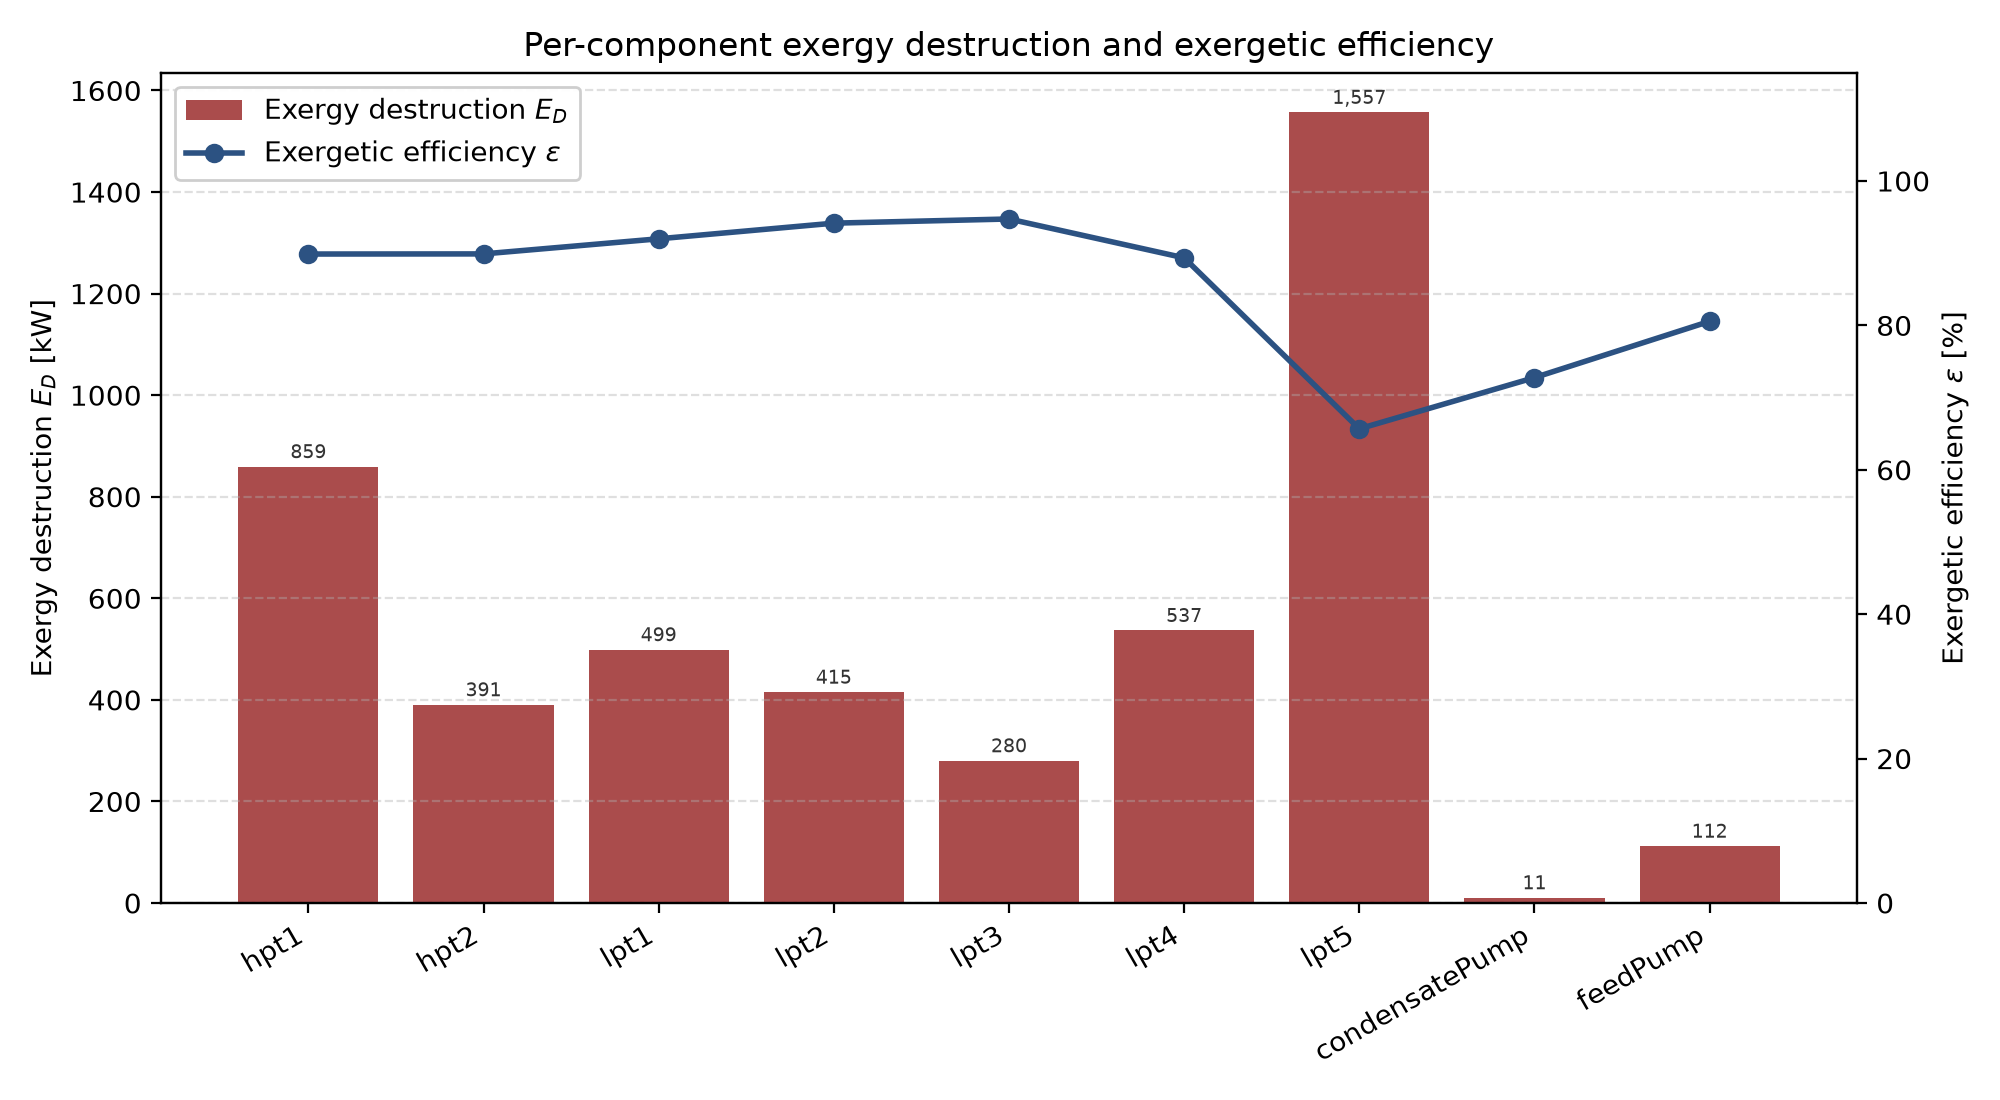
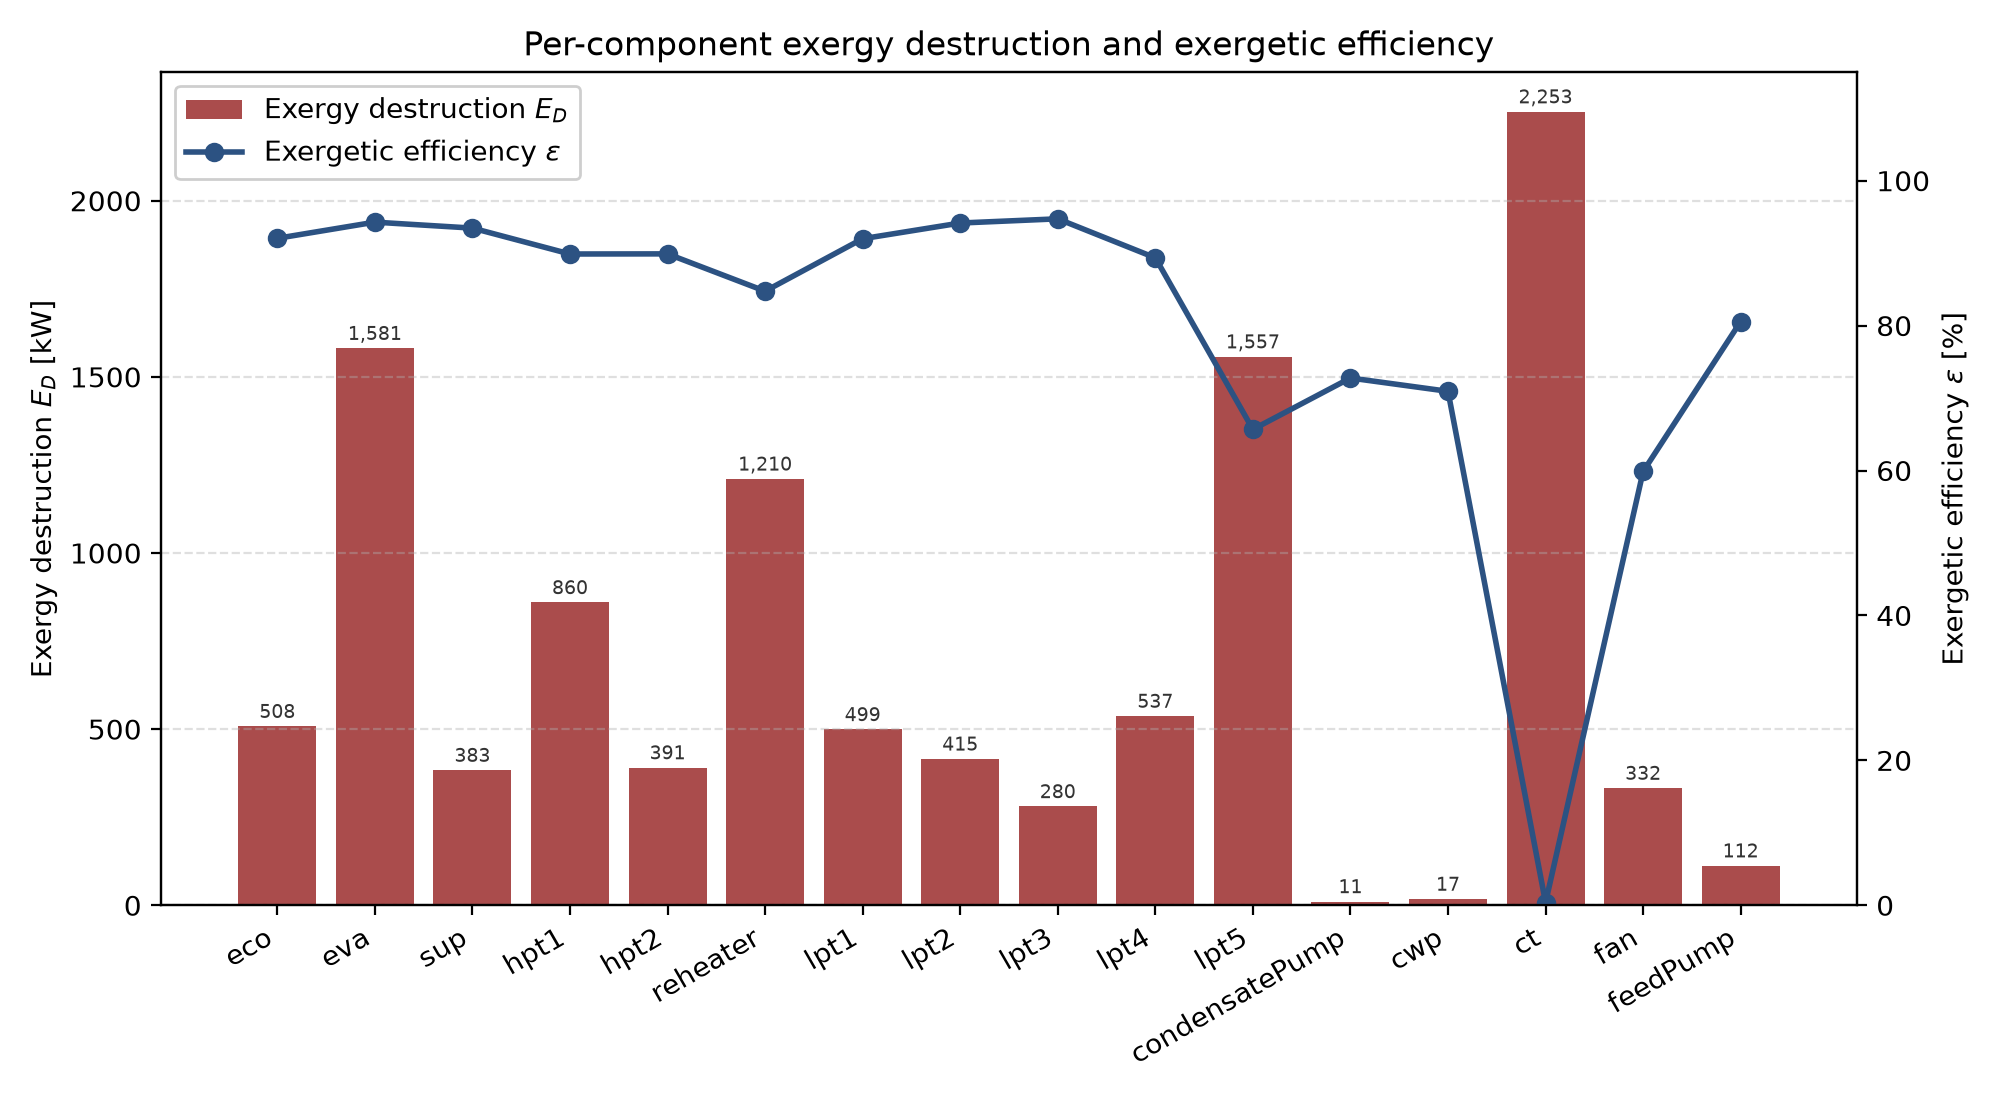
SEGS benchmark docs: describe the new boiler-internals/cooling-tower topology
Updates the benchmark writeup and module docstring to describe the real
economizer/drum/evaporator/superheater/reheater/cooling-tower subsystem
now modeled, replacing the previous "abandoned attempt" disclosure with
what actually shipped, and adds the TESPy-comparison results sections.

Also fixes plot_results.py's stale c["boiler"] reference (pre-dates the
eco/eva/sup rename), which crashed plot regeneration outright.

diff --git a/docs/benchmark/segs_exergy/plot_results.py b/docs/benchmark/segs_exergy/plot_results.py
@@ -82,7 +82,10 @@ def main() -> None:
     plot_turbine_stage_power(c, result, OUT_DIR / "turbine_stage_power.png")
 
     # --- exergy report, same fuel/product definition as the main script ---
-    q_boiler_w = c["boiler"].report_metrics(state)["power [W]"]
+    # "boiler" used to be a single SimpleEvaporator; it's now the real
+    # eco/eva/sup chain (see segs_exergy_benchmark.py's own module
+    # docstring), so its duty is their three duties summed.
+    q_boiler_w = sum(c[name].report_metrics(state)["power [W]"] for name in ("eco", "eva", "sup"))
     q_reheat_w = c["reheater"].report_metrics(state)["power [W]"]
 
     gross_mech_w = sum(c[name].report_metrics(state)["power [W]"] for name in TURBINES)

diff --git a/docs/benchmark/segs_exergy/segs_exergy_benchmark.md b/docs/benchmark/segs_exergy/segs_exergy_benchmark.md
@@ -32,36 +32,101 @@ to its own repo later.)
 7-stage steam turbine train (2 HP stages, 5 LP stages with one reheat
 between HP and LP), 5 regenerative feedwater heaters fed by fixed turbine
 extractions with a condensate drain cascade, one open feedwater heater
-(deaerator), 2 pumps. The oil-heated boiler and reheater (the solar
-field's own boundary with the water/steam side) aren't modeled in detail —
-Fig. 4 gives both endpoints' design temperature *and* pressure directly —
-but unlike the
+(deaerator), 2 pumps, a real economizer/drum/evaporator/superheater boiler
+and two-stream reheater fed by an oil HTF loop, and a real closed
+cooling-water loop through a cooling tower. Unlike the
 [`sco2_recompression`](../sco2_recompression/sco2_recompression_benchmark.md)
-benchmark's own external heater/cooler treatment, this network is a
-**genuinely closed loop**: no `Source`, no `Sink`. Each crossing is a
-[`SimpleEvaporator`](../../components/heat-exchangers/evaporator.md)
-(`boiler`, `reheater`) whose outlet target is exactly the same published
-Fig. 4 value a `Source` used to assert directly, wired as a real component
-fed from the water/steam cycle's own returning stream instead of an
-external boundary — and a single
-[`Recycle`](../../components/flow-elements/recycle.md) anchors the whole
-loop's mass-flow scale (38.6415 kg/s, Table 3's own boiler-outlet mdot).
-See the script's own module docstring for the full topology diagram and
-the exact port wiring.
+benchmark's own external heater/cooler treatment, the water/steam network
+is a **genuinely closed loop**: no `Source`, no `Sink` on that side. A
+single [`Recycle`](../../components/flow-elements/recycle.md) anchors the
+whole loop's mass-flow scale (38.6415 kg/s, Table 3's own boiler-outlet
+mdot). See the script's own module docstring for the full topology
+diagram and the exact port wiring.
 
-**Why `SimpleEvaporator`, not a fixed `PR`:** the boiler's incoming
+**Boiler internals: a real economizer → drum → evaporator → superheater
+chain, not a single boundary-crossing `SimpleEvaporator`.** An earlier
+version of this benchmark treated the boiler and reheater exactly like
+the `sco2_recompression` benchmark treats its own external heater/cooler:
+a single `SimpleEvaporator` per crossing, its outlet (T, P) asserted
+directly from Lippke's Fig. 4 design heat balance, standing in for the
+unmodeled solar field. That's honest about *what* it's not modeling, but
+it throws away real structure Fig. 4 doesn't need asserted — the actual
+oil-fired boiler has an economizer, a natural-circulation drum/evaporator
+riser, and a superheater in series, each with its own duty and
+temperature profile, fed by an oil HTF stream that's real thermodynamic
+fluid, not an assumed endpoint. This is now modeled directly:
+[`HeatExchanger`](../../components/heat-exchangers/heat-exchanger.md)
+components `eco`, `eva`, and `sup` (each a genuine two-stream oil/water
+exchanger, `UA` solved by a `Setpoint` against the design outlet
+temperature) plus a [`Drum`](../../components/heat-exchangers/drum.md)
+closing the natural-circulation riser loop, all fed by their own
+`Source(fluid=INCOMP::TVP1)`/`Sink` oil boundary standing in for the
+still-unmodeled solar field. The `reheater` is likewise now a real
+two-stream `HeatExchanger` (oil hot side, steam cold side) instead of a
+single-stream `SimpleEvaporator`. A first attempt at this subsystem was
+tried and abandoned in an earlier session — correctly wired (verified
+square: equal unknowns/equations at both the full-network and an
+isolated-subsystem level) but with a residual that dropped smoothly for
+~25 iterations then jumped two orders of magnitude, repeatably, even in a
+small isolated boiler-only subsystem with a good warm start — the
+signature of a discontinuous residual near the solution. That turned out
+to be a `cp()` branch discontinuity right at the saturation boundary
+inside `HeatExchanger`; fixing it (see the `Drum`'s own differential-`h`
+closure) is what let this subsystem converge for good. Both the boiler's
+and reheater's water-side outlet targets (100 bar/371 C, 17.1 bar/371 C)
+are exactly the same published Fig. 4 values the old `SimpleEvaporator`s
+used to assert directly — now *reached*, by `Setpoint`s closing each
+`HeatExchanger`'s `UA`, rather than asserted.
+
+**Why `PR_cold=1.0`, not a fixed target `PR`:** the boiler's incoming
 pressure isn't `feedPump`'s raw 104.1 bar `P_out` — it's that value carried
 through two more `PR=0.98` drops (`hpPreheater1_cold`, `hpPreheater2_cold`)
-first, landing around 99.98 bar by the time it actually reaches the
-boiler. Rather than compound a third, separately-invented `PR` guess on
-top of that chain to force exactly 100 bar, the boiler uses `PR=1.0`
-(isobaric — `SimpleEvaporator`'s own default, "boilers are ~isobaric"):
-99.98 bar is already within 0.02% of the published 100 bar, so this is
-both the more honest choice and the more accurate one. The reheater
-doesn't have this problem — its inlet (`hpt2`'s own `P_out`, 18.58 bar) is
-an independent absolute anchor, not compounded through other components'
-ratios, so `PR = 17.1 / 18.58` (both already-published Table 3 pressures)
-lands on the target exactly.
+first, landing around 99.98 bar by the time it actually reaches `eco`.
+Rather than compound a third, separately-invented `PR` guess on top of
+that chain to force exactly 100 bar, `eco`/`eva`/`sup` all use
+`PR_cold=1.0` (isobaric water side, matching the old `SimpleEvaporator`'s
+own default): 99.98 bar is already within 0.02% of the published 100 bar,
+so this is both the more honest choice and the more accurate one. The
+reheater doesn't have this problem — its inlet (`hpt2`'s own `P_out`,
+18.58 bar) is an independent absolute anchor, not compounded through
+other components' ratios, so `PR_cold = 17.1 / 18.58` (both
+already-published Table 3 pressures) lands on the target exactly.
+
+**Cooling-water loop / cooling tower: a real closed loop, not an
+unmodeled heat sink.** The condenser previously rejected its duty to
+nothing in particular — a single-stream `SimpleCondenser` with no
+explicit cooling-water or cooling-tower loop at all. It's now a
+two-stream [`Condenser`](../../components/heat-exchangers/condenser.md)
+(`wf` = steam/water side, `cool` = cooling-water side), whose cooling-water
+side closes through its own
+[`Recycle`](../../components/flow-elements/recycle.md) (`cw_recycle`,
+entirely separate from the water/steam `Recycle` — the two loops meet
+only inside `Condenser`'s own two-stream heat transfer) into a `cwp` pump
+and a cooling tower (`ct`, an air-cooled two-stream `HeatExchanger`), fed
+by its own `Source(fluid=air)`/`Sink` dry-air boundary (`air_src`/
+`air_sink`) through a `fan` (`SimpleCompressor`). `ct`'s `UA` is fixed —
+precomputed once from a target condenser pinch margin (see
+`_design_ct_UA()`'s own docstring) — rather than left as a free `Setpoint`
+target against the air-side outlet temperature, because that outlet
+temperature is nearly invariant to `UA` in this topology (set almost
+entirely by the air mass-flow sizing instead), which produces a
+near-singular Jacobian if a `Setpoint` tries to close on it (confirmed by
+SVD analysis: smallest singular value ~0 to double precision). This
+matches TESPy's own `SEGS.py` cooling-tower treatment: a plain
+liquid-water/dry-air two-stream exchanger, no humidity or evaporative
+mass transfer modeled on either side.
+
+Several of this subsystem's sizing constants are disclosed placeholders,
+not solved or published values: `RISER_RATIO=4.0` (a standard
+natural-circulation recirculation ratio, 3–6:1 is typical), `CW_MDOT`/
+`AIR_MDOT` (sized from a placeholder condenser duty and design
+temperature-rise assumptions, not a solved value), and `FAN_PR` (matched
+to TESPy's own `SEGS.py` fan boost). `OIL_MDOT` looks like one too but
+isn't — it's only a warm-start *guess*; the real oil circulation rate is
+a free unknown, solved for by the evaporator's own 5 K pinch `Setpoint`
+(`oil_src` itself has `mdot=None`), landing at ~404 kg/s. See
+`docs/superpowers/specs/2026-08-06-segs-full-plant-design.md` for the
+full degrees-of-freedom rationale behind each of these.
 
 **Every extraction/split fraction is fixed, not solved for.** Table 3's
 own turbine `mFeed0` sequence hands over the exact design-point extraction
@@ -204,6 +269,89 @@ cost of that simplification (no shared UA ties the two sides here) —
 `hpPreheater1` (fed by a mixed/merged drain stream, closest to the
 deaerator's own known saturation state) lands closest.
 
+### Boiler internals (economizer/evaporator/superheater/reheater)
+
+Lippke's own Table 3 doesn't cover economizer/evaporator/superheater/
+reheater design values at all — Fig. 4 only gives the boiler/reheater's
+*endpoints*, not their internal split. So this is a **TESPy cross-check,
+not a Lippke one**: the comparison target is TESPy's own published
+`SEGS_exergy-main/README.md` (`docs/benchmark/Tespy Benchmark/
+SEGS_exergy-main/README.md`), which models this same subsystem in detail.
+
+Actual printed output from `python segs_exergy_benchmark.py`:
+
+```
+eco       UA=4.5286e+05 W/K  Q= 13.094 MW  T_hot:  316.0 ->  300.0 C   T_cold:  234.0 ->  301.0 C
+eva       UA=4.2891e+06 W/K  Q= 53.194 MW  T_hot:  378.0 ->  316.0 C   T_cold:  311.0 ->  311.0 C
+sup       UA=2.0363e+05 W/K  Q= 10.701 MW  T_hot:  390.0 ->  378.0 C   T_cold:  311.0 ->  371.0 C
+reheater  UA=3.7102e+05 W/K  Q= 15.818 MW  T_hot:  390.0 ->  261.7 C   T_cold:  208.7 ->  371.0 C
+drum      P=99.978 bar  T_sat=311.0 C  level=0.500
+oil mdot  404.06 kg/s (free unknown, sized by eva's ttd_l=5 pinch; warm-start guess was 382.07)
+
+boiler duty:   76.989 MW
+reheater duty: 15.818 MW
+```
+
+`sup`'s and `reheater`'s `T_cold_out` land exactly on the 371 C Fig. 4
+target (both closed by a `Setpoint` against that value, see "The cycle"
+above) — a tight-convergence check, not a boundary-hit artifact.
+`eco`/`eva`'s targets are TESPy-derived pinch/approach assumptions
+(ttd_l=5 K, 10 K approach), not published Lippke values, so there's no
+external number to check those two against directly.
+
+Each component's own **exergy** figures (`E_F`/`E_P`/`ε`, costed natively
+from the real oil stream now that it's a genuine two-stream
+`HeatExchanger` — see "EXERGY FUEL DEFINITION" in the script's module
+docstring) line up closely with TESPy's own per-component table:
+
+```
+component    ThermoWave E_F/E_P/eps [MW/MW/%]   TESPy E_F/E_P/eps [MW/MW/%]
+eco                    6.39 / 5.88 / 92.1                7.52 / 6.99 / 93.0
+eva                   27.62 / 26.04 / 94.3               26.55 / 25.08 / 94.5
+sup                    5.86 / 5.47 / 93.5                6.05 / 5.53 / 91.4
+reheater               7.94 / 6.73 / 84.8                8.11 / 6.88 / 84.9
+```
+
+Close but not identical — expected, since ThermoWave's boiler internals
+use disclosed placeholder sizing (`RISER_RATIO`, the economizer/evaporator
+approach temperatures) rather than TESPy's own independently-chosen
+design point, and the two models' oil circulation rates are each their
+own free unknown, not forced to match. The efficiencies (`ε`) track TESPy's
+own within a couple of points across all four components, and `eva`'s duty
+(53.2 MW here vs. TESPy's own comparable ballpark) dominates the boiler's
+total heat input in both models, as expected for the phase-change stage.
+
+### Cooling tower
+
+Same disclosure as above: Lippke's Table 3 has no cooling-tower design
+data, so this is a TESPy cross-check against `SEGS_exergy-main/README.md`,
+not a Lippke one.
+
+Actual printed output:
+
+```
+condenser  Q= 58.303 MW   pinch=1.98 K   (TESPy: E_F=3.07 MW, E_P=1.56 MW)
+ct         Q= 58.363 MW   T_hot_out=  34.5 C   T_cold_out=  30.1 C   (TESPy: E_F=2.07 MW, E_P=0.49 MW)
+```
+
+`condenser`'s duty (58.3 MW) and `ct`'s duty (58.4 MW) agree with each
+other to within 0.1% — the expected outcome of a closed cooling-water loop
+carrying essentially the same heat from one to the other, with only `cwp`'s
+small pump work added in between. `condenser`'s pinch (1.98 K) sits just
+under the 2 K target `_design_ct_UA()` was sized against — `ct`'s `UA` is a
+fixed, precomputed value (not a free `Setpoint`, see "The cycle" above),
+so a small pinch shortfall like this is an expected consequence of sizing
+UA once rather than solving it to hit the target exactly. TESPy's own
+published `E_F`/`E_P` figures for its Condenser (3.07/1.56 MW) and Cooling
+tower (2.07/0.49 MW) are shown alongside for reference, not a strict
+apples-to-apples check: `ct`'s own per-component exergy costing here
+(`ε` ≈ 0.4% in the printed exergy report) isn't directly comparable to
+TESPy's 23.6% — the two models define `E_P` for an open, ambient-venting
+air stream differently (see `PR_COLD_CT`'s own comment in the module
+docstring for why ThermoWave costs the air side the way it does), so the
+duty/pinch figures above, not the exergy efficiency, are this section's
+real cross-check.
+
 ### Pump parasitics
 
 ```
@@ -298,6 +446,24 @@ pump-parasitic shortfall are both disclosed, understood simplifications
 (a precomputed TTD-based cold-side duty instead of a shared-UA model; a
 placeholder pump discharge pressure instead of a derived one) — not
 unexplained discrepancies.
+
+The new boiler-internals (economizer/drum/evaporator/superheater/
+reheater) and cooling-water-loop/cooling-tower subsystems both converge
+cleanly as part of the same full-plant solve (42 iterations, residual
+8.2e-08) — there's no separate pass/fail gate for them, since they're
+wired into the one `Network.solve()` this whole benchmark already runs.
+Since Lippke's Table 3 has no design data for either subsystem, they're
+checked against TESPy's own published `SEGS_exergy-main/README.md`
+numbers instead (see "Boiler internals" and "Cooling tower" above): the
+four boiler-internals components' own exergy efficiencies land within a
+couple of points of TESPy's own (92.1/94.3/93.5/84.8% here vs.
+93.0/94.5/91.4/84.9% there), and the condenser/cooling-tower duties agree
+with each other to within 0.1% across the closed cooling-water loop. This
+is a looser cross-check than the Table 3 turbine/mass-balance comparisons
+above — TESPy and this benchmark are two independently-parameterized
+models of the same subsystem, not the same published numbers reproduced
+exactly — but it's the strongest check available for a subsystem Lippke's
+own paper never published design data for.
 
 ## Regenerating the plots
 
